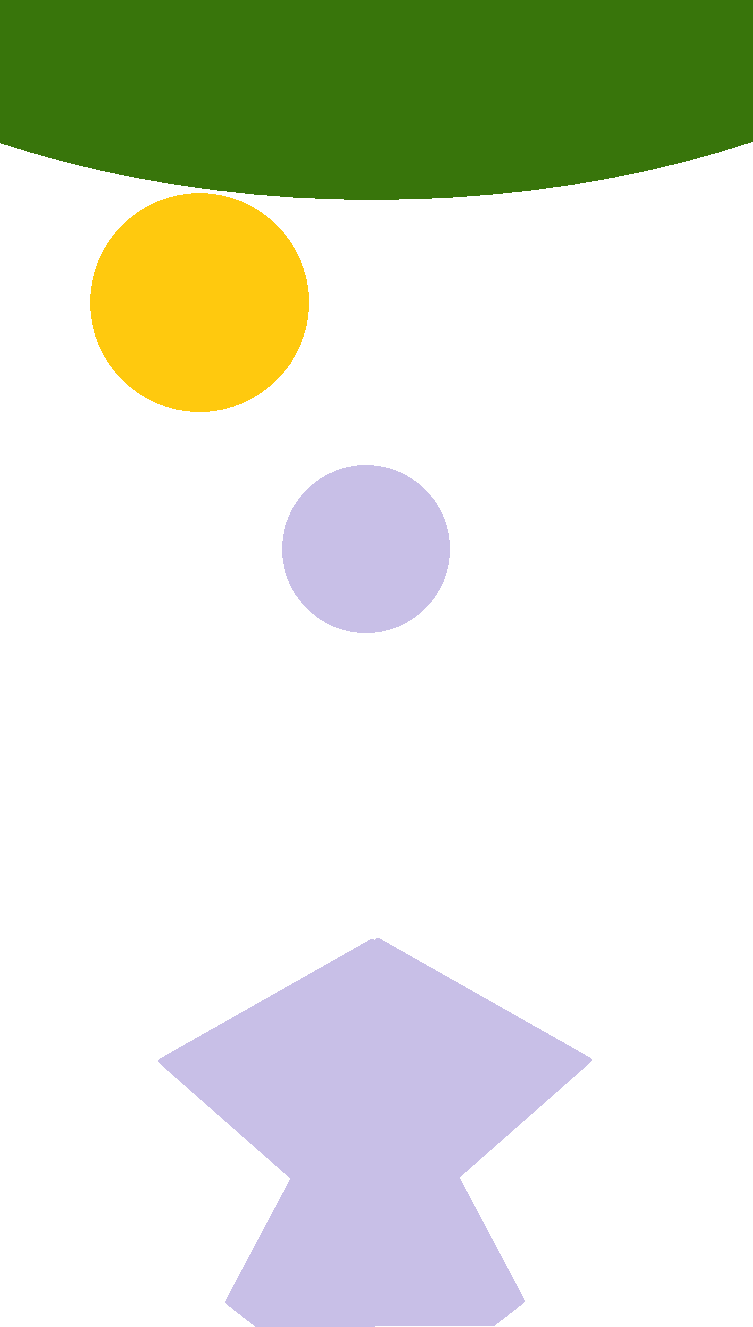
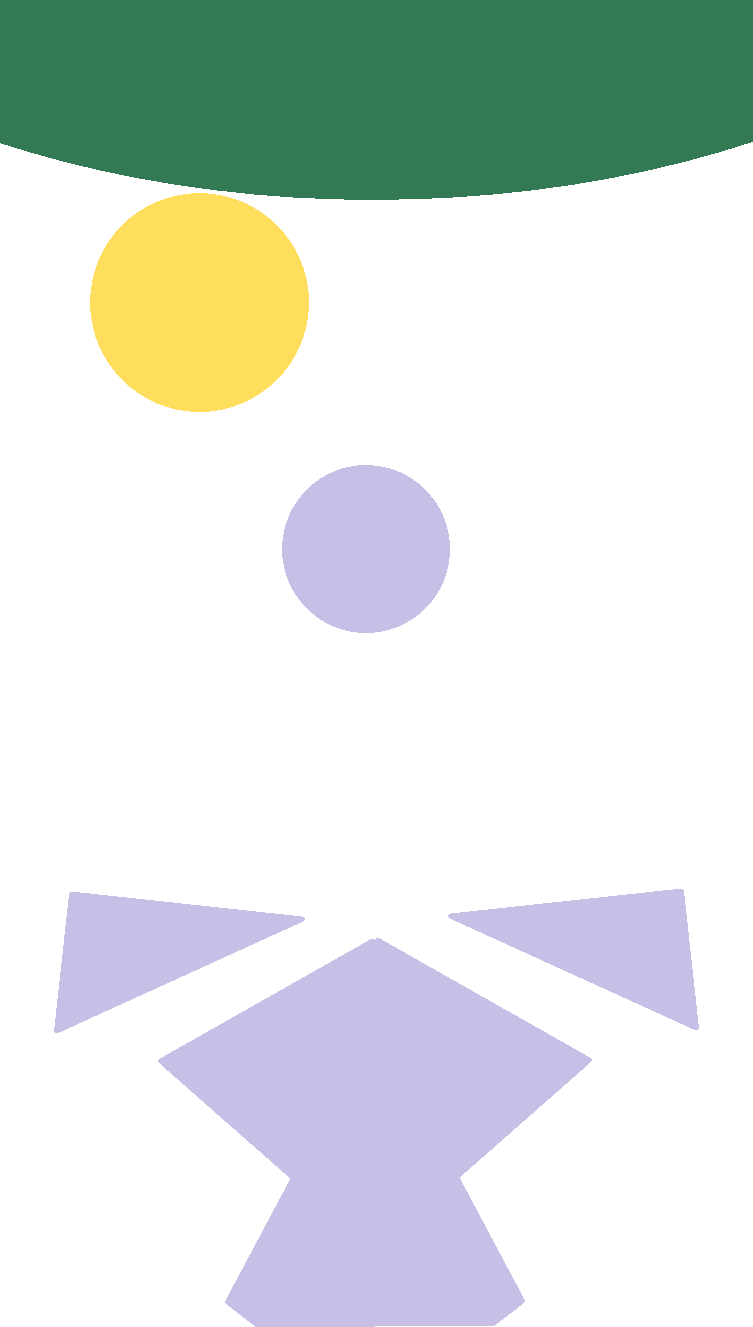
prototype of the svg animation

Changed region(s): [[0.0, 0.0, 1.0, 0.309], [0.0611, 0.6488, 0.3971, 0.7724], [0.6109, 0.6488, 0.9469, 0.7724]]

diff --git a/app/components/ModernLandingHero.tsx b/app/components/ModernLandingHero.tsx
@@ -14,13 +14,13 @@ export default function ModernLandingHero() {
 	return (
 		<div className='hero relative flex h-full w-full flex-col'>
 			<div className='h-20 shrink-0'></div>
-			<Image 
+			<Image
 				src={SelfHeroBackground}
 				alt='Self hero background'
-				className='hero-background fixed top-0 left-0 w-full object-cover z-0'
+				className='hero-background fixed left-0 top-0 z-0 w-full object-cover'
 			/>
 			{/* <FloatingTitleSection /> */}
-			<div className='flex w-full flex-col justify-center gap-4 z-10 self-center p-8 lg:w-2/3'>
+			<div className='z-10 flex w-full flex-col justify-center gap-4 self-center p-8 py-4 lg:w-2/3'>
 				{/* {logged ? <div>
 					<span className='text-xl'>Hi user name</span>
 				</div> : null} */}
@@ -42,7 +42,26 @@ export default function ModernLandingHero() {
 							Self, with <strong>Self</strong>.
 						</span>
 						<div className='svganimation-systems  h-40 w-full py-4 lg:h-48'>
-							<div className='h-full w-full bg-emerald-600/50'></div>
+							<div className='grid h-full w-full grid-cols-6 grid-rows-3 gap-1 rounded-lg border-emerald-600/50 text-sm *:border *:border-slate-400'>
+								<div className='sleep col-span-3 row-span-2 flex items-center justify-center rounded-md bg-purple-400 text-slate-50'>
+									Sleep
+								</div>
+								<div className='sleep col-span-2 row-span-1 flex items-center justify-center rounded-md bg-yellow-400 text-slate-950'>
+									Food
+								</div>
+								<div className='sleep col-span-2 row-span-1 flex items-center justify-center rounded-md bg-green-300 text-slate-950'>
+									Cycling
+								</div>
+								<div className='sleep col-span-1 row-span-1 row-start-1 flex items-center justify-center rounded-md bg-green-900 text-sm text-slate-50'>
+									Exercise
+								</div>
+								<div className='sleep col-span-4 row-start-3 flex items-center justify-center rounded-md bg-slate-300 text-slate-950'>
+									Work
+								</div>
+								<div className='sleep col-span-1 row-span-1 row-start-3 flex items-center justify-center rounded-md border-dashed bg-slate-100 text-sm text-slate-950 cursor-pointer'>
+									+
+								</div>
+							</div>
 						</div>
 						<span className='text-lg'>
 							Store your thoughts, ideas, and feelings in a{' '}

diff --git a/app/components/LandingPage.tsx b/app/components/LandingPage.tsx
@@ -12,7 +12,7 @@ export default function LandingPage() {
 	return (
 		<div className='relative min-h-[100svh] overflow-y-scroll'>
 			<div className='header fixed left-0 top-0 w-full p-4 z-20'>
-				<header className='fade flex  w-full items-center justify-between rounded-3xl bg-green-950/30 p-2 pl-6'> {/*bg-[#c7d1ce]*/}
+				<header className='fade flex  w-full items-center justify-between rounded-full bg-green-950/30 px-4 pl-6 py-4'> {/*bg-[#c7d1ce]*/}
 					<div className='flex items-center space-x-4'>
 						<h1
 							className={`text-lg font-semibold text-slate-50 dark:text-gray-200 ${manrope.className}`}

diff --git a/app/globals.css b/app/globals.css
@@ -157,6 +157,9 @@
 	.hero {
 		background-position: 24% 25%;
 	}
+	.hero-background {
+		filter: blur(150px);
+	}
 }
 
 .gutter-both-egdes {
